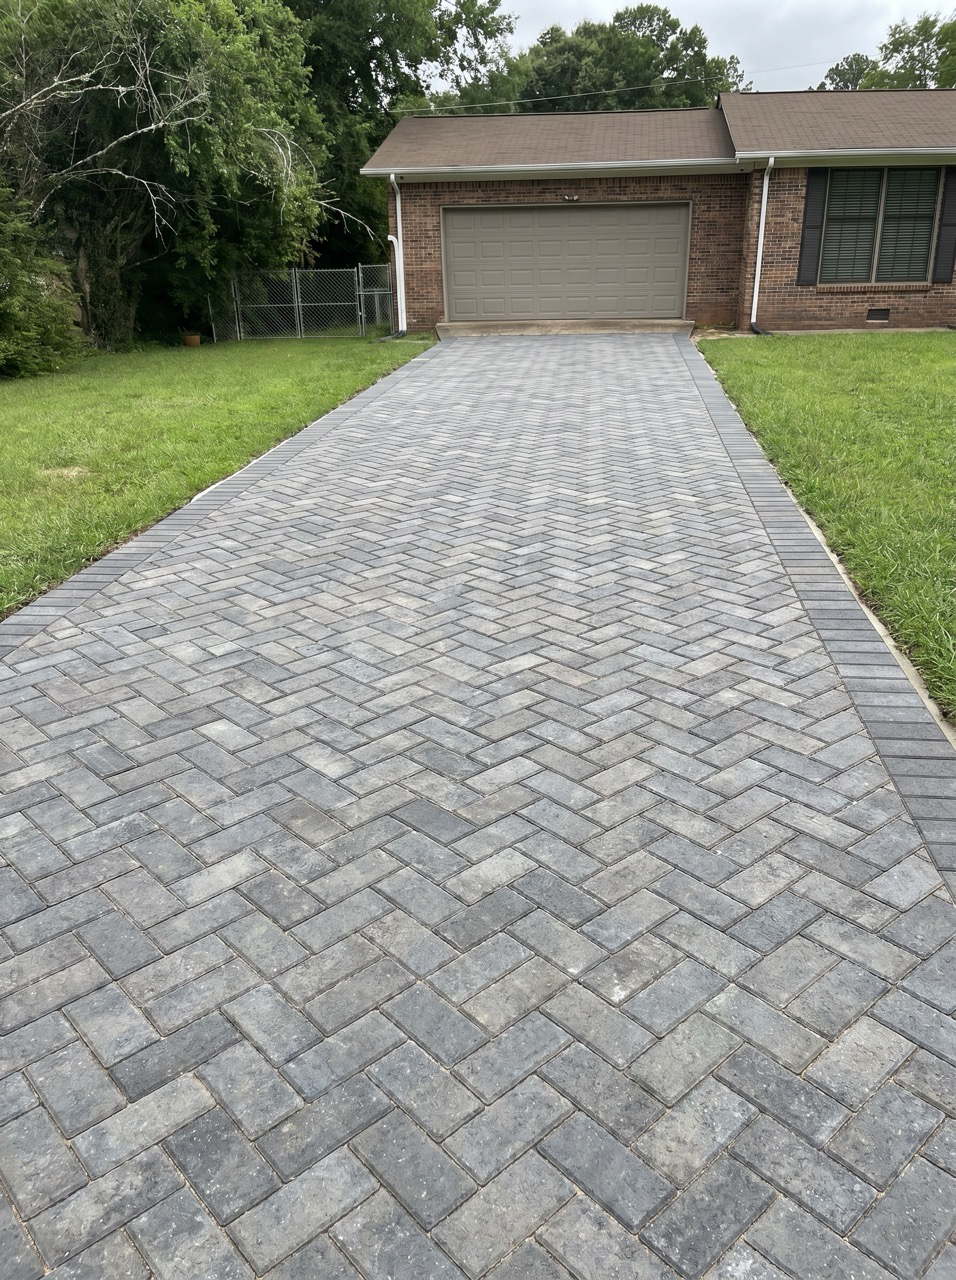
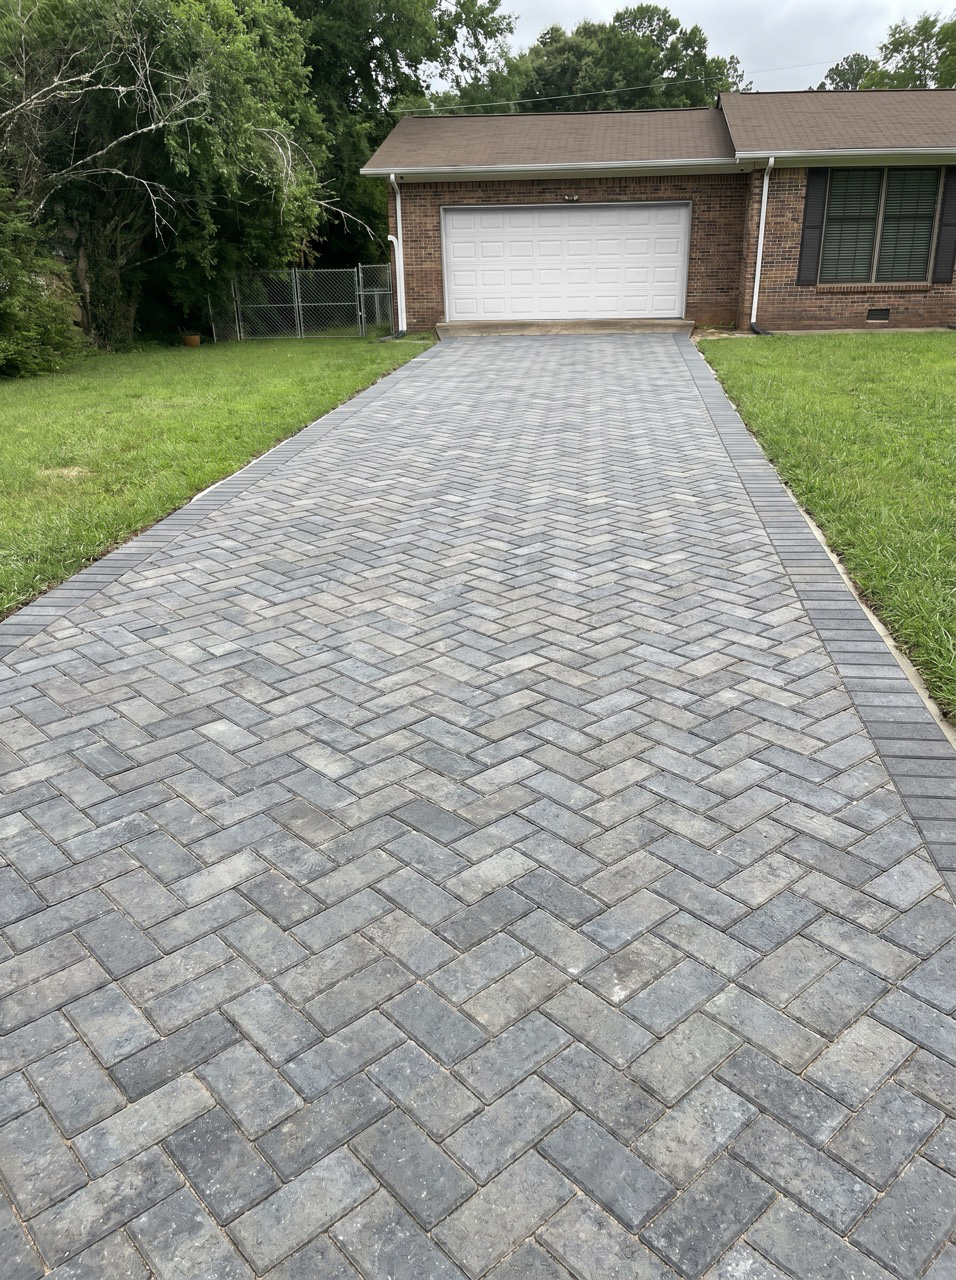
Add files via upload

Changed region(s): [[0.455, 0.1562, 0.728, 0.25]]

diff --git a/index.html b/index.html
@@ -338,11 +338,11 @@ footer .legal{font-family:var(--font-mono);font-size:11px;letter-spacing:.06em;c
     <figure class="ba vf" aria-label="Before and after: the same rack before and after a 48 Frames shoot">
       <span class="vf-b"></span>
       <img class="before" src="images/driveway-before.jpeg" alt="Before: the rack photographed in a plain showroom" loading="eager" decoding="async">
+      <span class="tag before">Original iPhone Image</span>
       <div class="after-layer">
-        <img src="images/driveway-after.jpeg" alt="After: the same rack, studio-graded by 48 Frames" loading="eager" decoding="async">
-        <span class="tag after">After</span>
+        <img src="images/hero-after.webp" alt="After: the same rack, studio-graded by 48 Frames" loading="eager" decoding="async">
+        <span class="tag after">Infinite Variations</span>
       </div>
-      <span class="tag before">Before</span>
       <div class="divider"><span class="knob"></span></div>
       <div class="timer"><span class="dot"></span>48:00:00</div>
     </figure>
@@ -354,7 +354,7 @@ footer .legal{font-family:var(--font-mono);font-size:11px;letter-spacing:.06em;c
   <div class="wrap">
     <div class="grid">
       <div class="pillar vf reveal"><span class="vf-b"></span><div class="k"><i>01</i> Fast.</div><p>Visuals in 2 business days, not the weeks a traditional shoot takes to even schedule.</p></div>
-      <div class="pillar vf reveal"><span class="vf-b"></span><div class="k"><i>02</i> Sharp.</div><p>A human eye on every frame. If a shot isn't right, we remake it — until it works.</p></div>
+      <div class="pillar vf reveal"><span class="vf-b"></span><div class="k"><i>02</i> Accurate.</div><p>A human eye on every frame. If a shot isn't right, we remake it — until its perfect.</p></div>
       <div class="pillar vf reveal"><span class="vf-b"></span><div class="k"><i>03</i> Honest.</div><p>Real people, real replies, full usage rights. AI is our tool, not our identity.</p></div>
     </div>
   </div>
@@ -367,7 +367,7 @@ footer .legal{font-family:var(--font-mono);font-size:11px;letter-spacing:.06em;c
       <div class="grade-bar"></div>
       <p class="eyebrow">Selected work</p>
       <h2>See what 48 hours looks like.</h2>
-      <p>We shoot across multiple categories — Decking, Landscaping, Concrete, Equipment, and more. Every set is built around your real product and the scenes your customers live in.</p>
+      <p>We work across multiple industries — <br>Decking, Landscaping, Concrete, Pools, Patios and more.</p>
     </div>
     <div class="gallery">
       <!-- PROJECT 1 — replace thumbs with real <img> + descriptive alt -->
@@ -419,9 +419,9 @@ footer .legal{font-family:var(--font-mono);font-size:11px;letter-spacing:.06em;c
       <h2>Three steps. Two days. Done.</h2>
     </div>
     <div class="steps">
-      <div class="step vf reveal"><span class="vf-b"></span><div class="n">01</div><h3>Send us your images</h3><p>Send us up to 5 images per project, old & new images are okay. Clear and well lit images will give better results.</p></div>
+      <div class="step vf reveal"><span class="vf-b"></span><div class="n">01</div><h3>Send us your images</h3><p>Send us up to 5 images per project, any modern cellphone image will work. Clear and well lit images will give better results.</p></div>
       <div class="step vf reveal"><span class="vf-b"></span><div class="n">02</div><h3>Project Context</h3><p>Give us as much information as possible into the project. Materials, colors, shapes, vibe, etc.</p></div>
-      <div class="step vf reveal"><span class="vf-b"></span><div class="n">03</div><h3>Done</h3><p>Give me 48 hours to rendering and clean up your images and I'll deliver you 4k goodness to present to your client.</p></div>
+      <div class="step vf reveal"><span class="vf-b"></span><div class="n">03</div><h3>Done</h3><p>Give us 48 hours to rendering and clean up your images and we'll deliver you 4k goodness to present to your clients.</p></div>
     </div>
   </div>
 </section>
@@ -433,7 +433,7 @@ footer .legal{font-family:var(--font-mono);font-size:11px;letter-spacing:.06em;c
       <div class="grade-bar"></div>
       <p class="eyebrow">Pricing</p>
       <h2>Pricing that scales with you.</h2>
-      <p>No surprises. Pick a pack or build your own.</p>
+      <p>No Guesswork. No Disguises. No Surprises.</p>
     </div>
     <!-- NOTE: example prices — set your real numbers in the data-* attributes below -->
     <div class="tiers">
@@ -471,7 +471,7 @@ footer .legal{font-family:var(--font-mono);font-size:11px;letter-spacing:.06em;c
 <section class="callout" aria-label="Return on investment">
   <div class="callout-inner reveal">
     <p class="eyebrow">Do the math</p>
-    <h2>What's one more closed job worth to you <span class="hl">per month?</span></h2>
+    <h2>What's one more closed job worth to you <span class="hl"><br>per month?</span></h2>
     <p>For most contractors, a single extra job pays for a full year of renders. If one photorealistic before/after helps you close just one more project a month, everything above pays for itself — the rest is profit.</p>
   </div>
 </section>
@@ -504,7 +504,7 @@ footer .legal{font-family:var(--font-mono);font-size:11px;letter-spacing:.06em;c
       <div class="grade-bar"></div>
       <p class="eyebrow">About</p>
       <h2>Built for companies that punch above their weight.</h2>
-      <p>I blend 10 years of professional B2B graphic design, photography and marketing experience with state of the art design tools so you can close the deal. The speed and accuracy of this service is something thats VERY new and exciting!<!-- Swap in your real founder story here. --></p>
+      <p>We blend 10 years of professional B2B graphic design, photography and marketing experience with state of the art design tools so you can close the deal. The speed and accuracy of this service is something thats VERY new and exciting!<!-- Swap in your real founder story here. --></p>
     </div>
     <div class="grid">
       <div class="card reveal"><h4>Agency quality</h4><p>The polish of a $10k shoot without the $10k cost — 4k images and 4k video.</p></div>